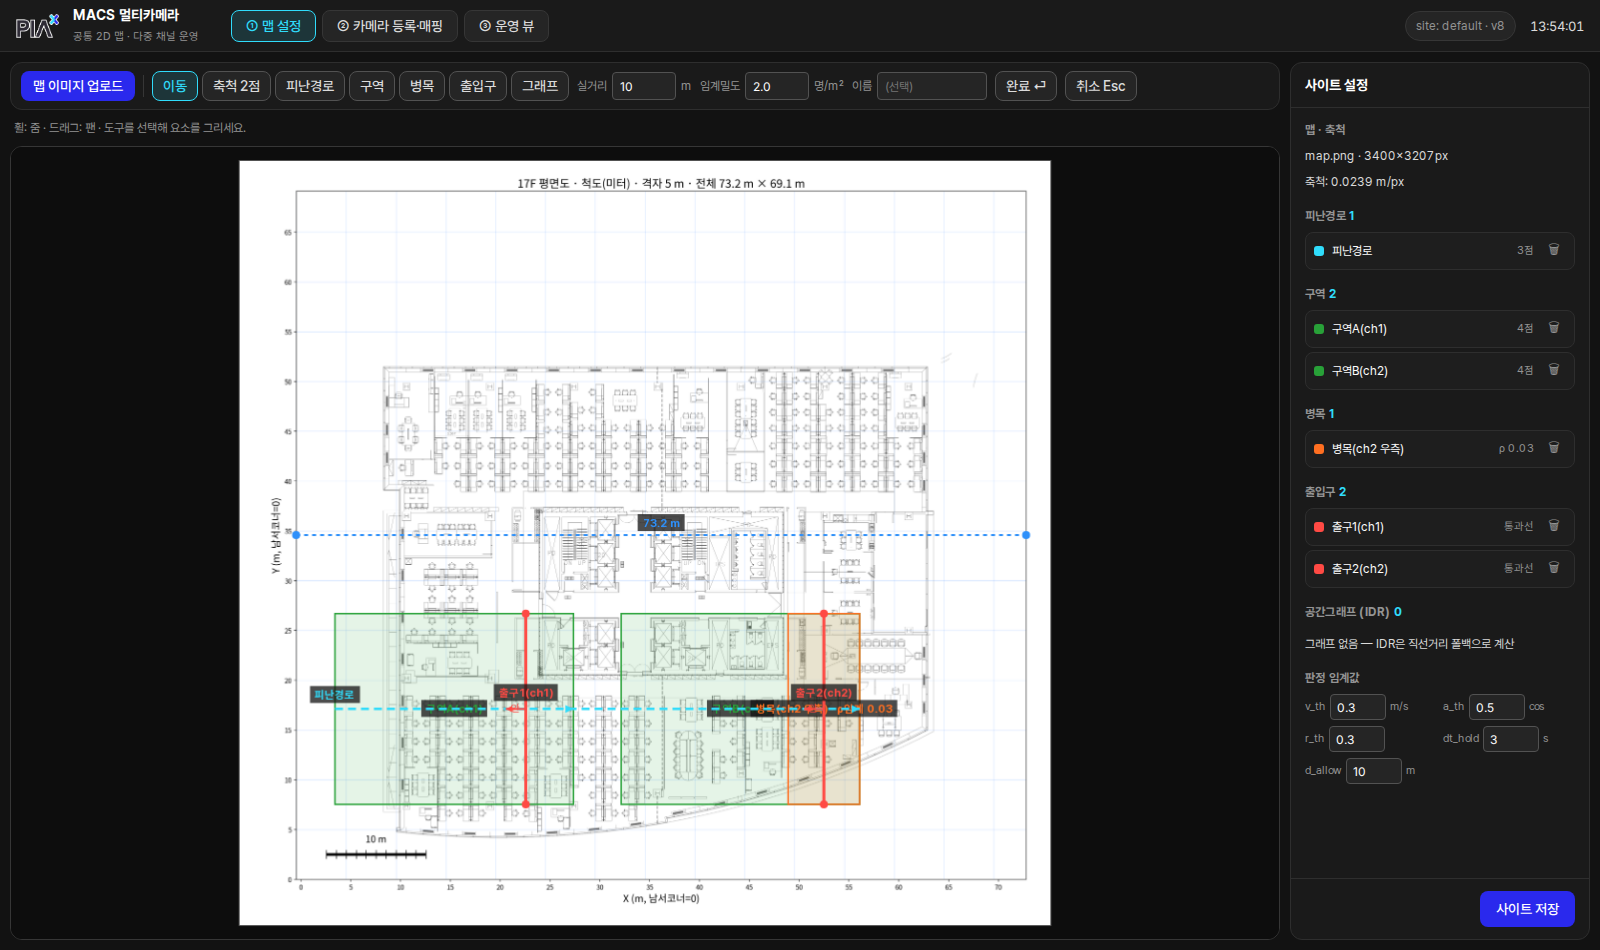
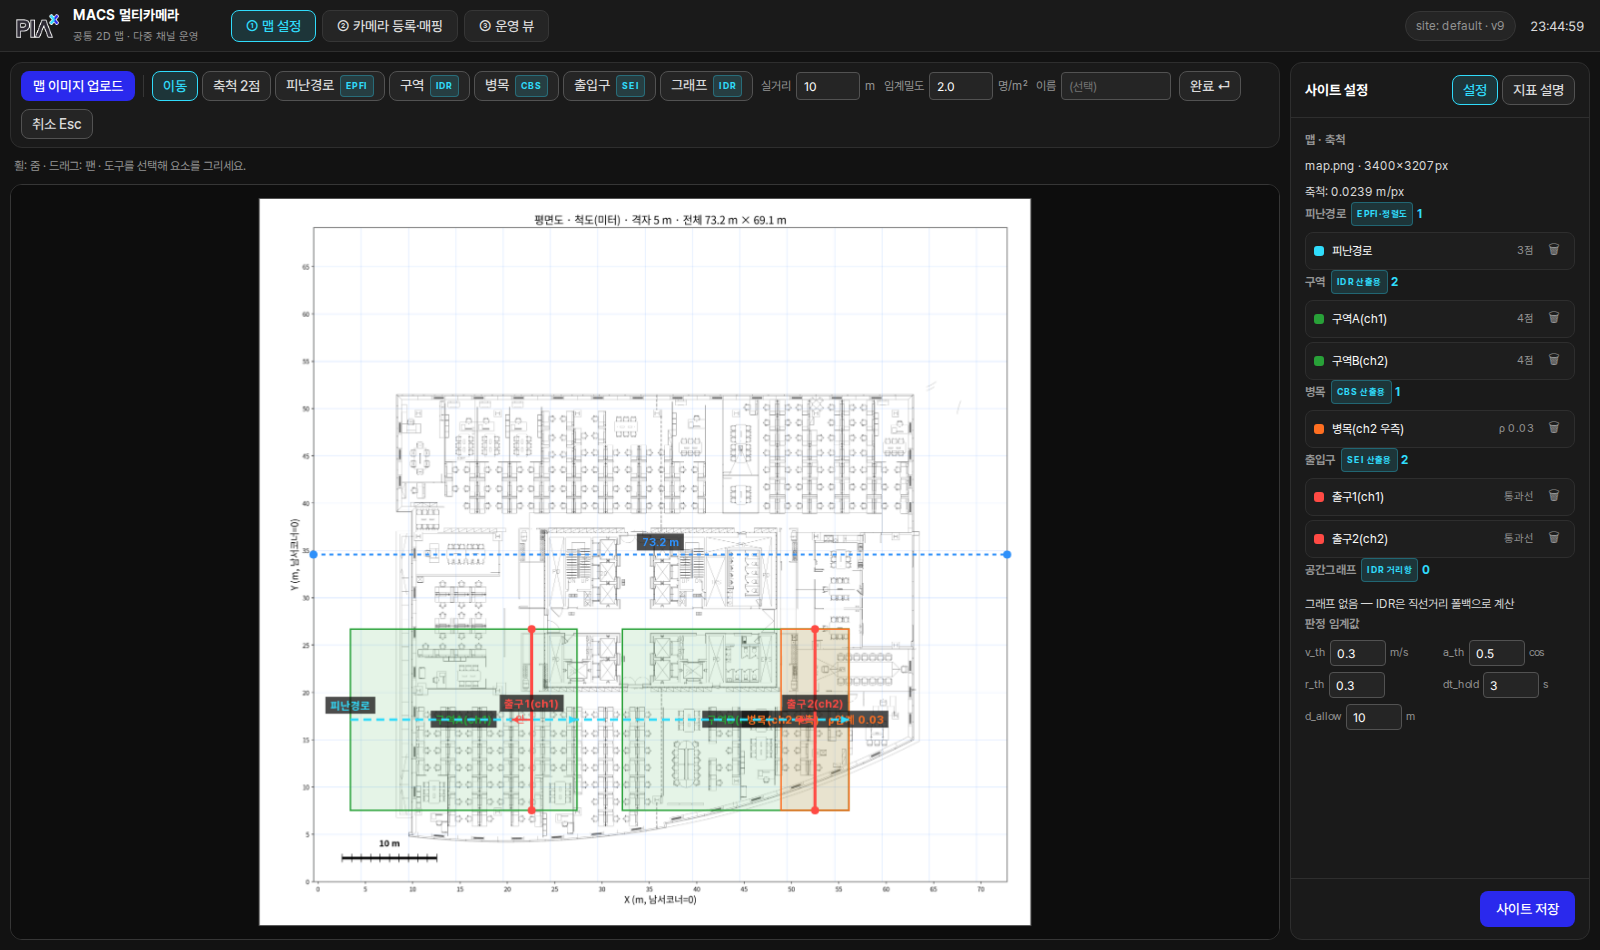
feat(webui/main): 요소별 지표 뱃지 + 맵 설정 [지표 설명] 토글 패널
- 도구·목록에 산출 지표 라벨(피난경로=EPFI·구역=IDR·병목=CBS·출입구=SEI·그래프=IDR)
- 우측 패널 [설정]↔[지표 설명] 토글 — 4대 지표 수식 개요·필요 요소 카드 5종
- 가이드 캡처 갱신(01)·지표 설명 화면(14) 추가

diff --git a/webui/static/main/index.html b/webui/static/main/index.html
@@ -35,11 +35,11 @@
           <div class="seg" id="mapTools">
             <button class="tag-btn on" data-tool="pan">이동</button>
             <button class="tag-btn" data-tool="scale">축척 2점</button>
-            <button class="tag-btn" data-tool="route">피난경로</button>
-            <button class="tag-btn" data-tool="zone">구역</button>
-            <button class="tag-btn" data-tool="bottleneck">병목</button>
-            <button class="tag-btn" data-tool="exit">출입구</button>
-            <button class="tag-btn" data-tool="graph">그래프</button>
+            <button class="tag-btn" data-tool="route" title="정렬도·EPFI·피난개시 판정의 기준선">피난경로 <i class="mtag">EPFI</i></button>
+            <button class="tag-btn" data-tool="zone" title="피난개시 판정·IDR 산출 단위 (+실시간 재실·밀도)">구역 <i class="mtag">IDR</i></button>
+            <button class="tag-btn" data-tool="bottleneck" title="임계밀도 초과 혼잡 누적 → CBS">병목 <i class="mtag">CBS</i></button>
+            <button class="tag-btn" data-tool="exit" title="방향성 통과 카운트 → 출구 활용 효율 SEI">출입구 <i class="mtag">SEI</i></button>
+            <button class="tag-btn" data-tool="graph" title="경보→구역 보행거리 그래프 (IDR 거리항)">그래프 <i class="mtag">IDR</i></button>
           </div>
           <span class="fieldlab">실거리 <input id="scaleMeters" type="number" min="0.1" step="0.1" value="10" /> m</span>
           <span class="fieldlab">임계밀도 <input id="rhoCrit" type="number" min="0.1" step="0.1" value="2.0" /> 명/m²</span>
@@ -52,31 +52,38 @@
       </div>
 
       <aside class="side">
-        <div class="sidehead">사이트 설정</div>
+        <div class="sidehead">
+          <span>사이트 설정</span>
+          <span class="seg">
+            <button class="tag-btn on" id="msTabSet">설정</button>
+            <button class="tag-btn" id="msTabHelp">지표 설명</button>
+          </span>
+        </div>
         <div class="sidebody">
+          <div id="mapSetPanel">
           <div class="group">
             <div class="gtitle">맵 · 축척</div>
             <div class="grow" id="mapMeta">맵 없음</div>
             <div class="grow" id="scaleMeta">축척 미지정</div>
           </div>
           <div class="group">
-            <div class="gtitle">피난경로 <span class="cnt" id="cntRoutes">0</span></div>
+            <div class="gtitle">피난경로 <i class="mtag">EPFI·정렬도</i> <span class="cnt" id="cntRoutes">0</span></div>
             <div id="listRoutes" class="ellist"></div>
           </div>
           <div class="group">
-            <div class="gtitle">구역 <span class="cnt" id="cntZones">0</span></div>
+            <div class="gtitle">구역 <i class="mtag">IDR 산출용</i> <span class="cnt" id="cntZones">0</span></div>
             <div id="listZones" class="ellist"></div>
           </div>
           <div class="group">
-            <div class="gtitle">병목 <span class="cnt" id="cntBottlenecks">0</span></div>
+            <div class="gtitle">병목 <i class="mtag">CBS 산출용</i> <span class="cnt" id="cntBottlenecks">0</span></div>
             <div id="listBottlenecks" class="ellist"></div>
           </div>
           <div class="group">
-            <div class="gtitle">출입구 <span class="cnt" id="cntExits">0</span></div>
+            <div class="gtitle">출입구 <i class="mtag">SEI 산출용</i> <span class="cnt" id="cntExits">0</span></div>
             <div id="listExits" class="ellist"></div>
           </div>
           <div class="group">
-            <div class="gtitle">공간그래프 (IDR) <span class="cnt" id="cntGraph">0</span></div>
+            <div class="gtitle">공간그래프 <i class="mtag">IDR 거리항</i> <span class="cnt" id="cntGraph">0</span></div>
             <div id="listGraph" class="ellist"></div>
             <div class="grow" id="graphMeta"></div>
           </div>
@@ -88,6 +95,57 @@
               <label>r_th <input id="thR" type="number" step="0.05" /></label>
               <label>dt_hold <input id="thDt" type="number" step="0.5" /> s</label>
               <label>d_allow <input id="thD" type="number" step="0.5" /> m</label>
+            </div>
+          </div>
+          </div>
+
+          <!-- 지표 설명 패널 (토글) — 4대 지표가 어떤 요소로 어떻게 산출되는지 -->
+          <div id="mapHelpPanel" class="hidden">
+            <div class="hcard">
+              <div class="htitle"><i class="mtag">IDR</i> 구역 피난 반응 확산</div>
+              <div class="hbody">
+                경보 위치에서 각 <b>구역</b>까지의 거리 ÷ 그 구역의 반응 지연시간.<br/>
+                <b>피난개시 판정</b>: 구역 안 사람들의 평균속도(v_th)·경로 방향 정렬도(a_th)·
+                동시만족 비율(r_th)이 <b>dt_hold초 연속 유지</b>된 최초 시점.<br/>
+                필요한 요소: <b>구역</b>(판정 단위) + <b>피난경로</b>(방향 기준) +
+                <b>공간그래프</b>(보행거리 — 없으면 직선거리)
+              </div>
+            </div>
+            <div class="hcard">
+              <div class="htitle"><i class="mtag">EPFI</i> 경로 충실도 (0~100)</div>
+              <div class="hbody">
+                사람별로 <b>배정된 피난경로</b>(세션 첫 위치의 최근접 경로)에서 벗어난
+                거리 d(t)를 시간 적분 → <code>max(0, 1−∫d dt/(T·d_allow))×100</code>.<br/>
+                경로 위를 걸으면 100점, 허용이탈(d_allow) 밖을 오래 걸을수록 0점.<br/>
+                필요한 요소: <b>피난경로</b> + 맵 <b>축척</b>
+              </div>
+            </div>
+            <div class="hcard">
+              <div class="htitle"><i class="mtag">CBS</i> 병목 혼잡 누적</div>
+              <div class="hbody">
+                <b>병목</b> polygon별 밀도 ρ(t)=인원/실면적이 <b>임계밀도(ρcrit)</b>를
+                초과한 만큼을 시간 적분 → <code>∫max(0, ρ−ρcrit)×가중치 dt</code>.<br/>
+                임계를 한 번도 안 넘으면 0. 병목별 최대밀도·초과누적시간·위험등급 함께 산출.<br/>
+                필요한 요소: <b>병목</b>(+임계밀도) + 맵 <b>축척</b>
+              </div>
+            </div>
+            <div class="hcard">
+              <div class="htitle"><i class="mtag">SEI</i> 출구 활용 효율 (0~100)</div>
+              <div class="hbody">
+                <b>출입구</b> 통과선별 고유 통과인원(왕복 중복 제외) 분포를
+                <b>설계 인원</b> 분포와 비교 → <code>(1−½Σ|실제비율−설계비율|)×100</code>.<br/>
+                설계 분포대로 분산 통과하면 100, 한 출구로 쏠리면 하락.
+                통과 0명이면 산출 보류(insufficient data).<br/>
+                필요한 요소: <b>출입구</b>(통과선+안쪽 방향+설계인원)
+              </div>
+            </div>
+            <div class="hcard">
+              <div class="htitle">공통</div>
+              <div class="hbody">
+                네 지표 모두 <b>운영 뷰 → 🔔 경보 시작</b>으로 평가 세션을 열어야 산출
+                (경보 시각 t_alarm 기준). 임계값(v_th 등)은 좌측 [설정] 탭에서 조정 —
+                고객 확정 전 잠정 기본값.
+              </div>
             </div>
           </div>
         </div>

diff --git a/webui/static/main/main.css b/webui/static/main/main.css
@@ -186,3 +186,19 @@ body{ background:var(--bg-base); color:var(--text-1); font:var(--body-14, 14px/1
 .mtbl tr.notstarted td{ color:var(--text-3); }
 
 .sessfoot{ display:flex; gap:6px; padding-top:10px; }
+
+/* ---------------- 지표 라벨(mtag) · 지표 설명 패널 ---------------- */
+.mtag{ display:inline-block; font-style:normal; font-size:9px; font-weight:700;
+  letter-spacing:.4px; padding:1px 5px; border-radius:4px; vertical-align:1px;
+  background:rgba(48,220,251,.14); color:var(--cyan, #30DCFB);
+  border:1px solid rgba(48,220,251,.3); }
+.tag-btn .mtag{ margin-left:3px; }
+.gtitle .mtag{ margin-left:2px; }
+
+.hcard{ background:var(--bg-2); border:1px solid var(--stroke-2); border-radius:var(--r-lg);
+  padding:10px 12px; margin-bottom:10px; }
+.htitle{ font-size:13px; font-weight:700; margin-bottom:6px; display:flex; align-items:center; gap:6px; }
+.hbody{ font-size:11.5px; line-height:1.65; color:var(--text-2); }
+.hbody b{ color:var(--text-1); }
+.hbody code{ font-size:10.5px; background:var(--bg-3); padding:1px 5px; border-radius:4px;
+  color:var(--cyan, #30DCFB); }

diff --git a/webui/static/main/view_map.js b/webui/static/main/view_map.js
@@ -296,6 +296,15 @@ Views.map = (() => {
       b.onclick = () => setTool(b.dataset.tool));
     $("drawDone").onclick = finishDraft;
     $("drawCancel").onclick = cancelDraft;
+    // 우측 패널: [설정] ↔ [지표 설명] 토글
+    const msTab = (help) => {
+      $("mapSetPanel").classList.toggle("hidden", help);
+      $("mapHelpPanel").classList.toggle("hidden", !help);
+      $("msTabSet").classList.toggle("on", !help);
+      $("msTabHelp").classList.toggle("on", help);
+    };
+    $("msTabSet").onclick = () => msTab(false);
+    $("msTabHelp").onclick = () => msTab(true);
     $("siteSave").onclick = save;
     $("mapUpload").onchange = (e) => { if (e.target.files.length) upload(e.target.files); };
     $("scaleMeters").onchange = () => {              // 이미 지정된 축척의 실거리 갱신

diff --git a/docs/guide/멀티카메라-시스템/README.md b/docs/guide/멀티카메라-시스템/README.md
@@ -25,7 +25,7 @@
 | 상단 탭 | ① 맵 설정 / ② 카메라 등록·매핑 / ③ 운영 뷰 전환 |
 | 툴바 | [맵 이미지 업로드] + 드로잉 도구(이동/축척/피난경로/구역/병목/출입구/그래프) |
 | 중앙 캔버스 | 평면도. **휠=줌, 드래그=팬** (모든 화면 공통) |
-| 우측 패널 | 요소 목록(개수·삭제)·판정 임계값 입력·[사이트 저장] |
+| 우측 패널 | [설정]↔[지표 설명] 토글. 설정=요소 목록(개수·삭제)·판정 임계값·[사이트 저장] |
 
 ### 1-2. 맵 업로드 — CAD 메타로 축척 자동
 
@@ -83,7 +83,15 @@
   (연쇄 연결 지원, 같은 엣지 재클릭=제거, 노드 더블클릭=삭제)
 - **안 그려도 동작** — 그래프가 없으면 직선거리 폴백으로 IDR 계산
 
-### 1-6. 판정 임계값 + 저장
+### 1-6. 지표 설명 탭 — 어떤 요소가 어떤 지표를 만드는가
+
+![지표 설명](img/14-지표설명-토글.png)
+
+- 우측 패널 상단 **[지표 설명]** 토글 → IDR·EPFI·CBS·SEI 카드: **산출 수식 개요 +
+  필요한 드로잉 요소**를 화면 안에서 바로 확인 (툴바·목록의 지표 뱃지와 대응)
+- 도구 뱃지 요약: 피난경로=`EPFI·정렬도` · 구역=`IDR` · 병목=`CBS` · 출입구=`SEI` · 그래프=`IDR 거리항`
+
+### 1-7. 판정 임계값 + 저장
 
 - 우측 하단 임계값(v_th 속도 · a_th 정렬도 · r_th 비율 · Δt 유지시간 · d_allow 허용이탈)
   — 피난개시 판정·EPFI에 사용, **고객 확정 전까지 조정 가능한 설정값**
